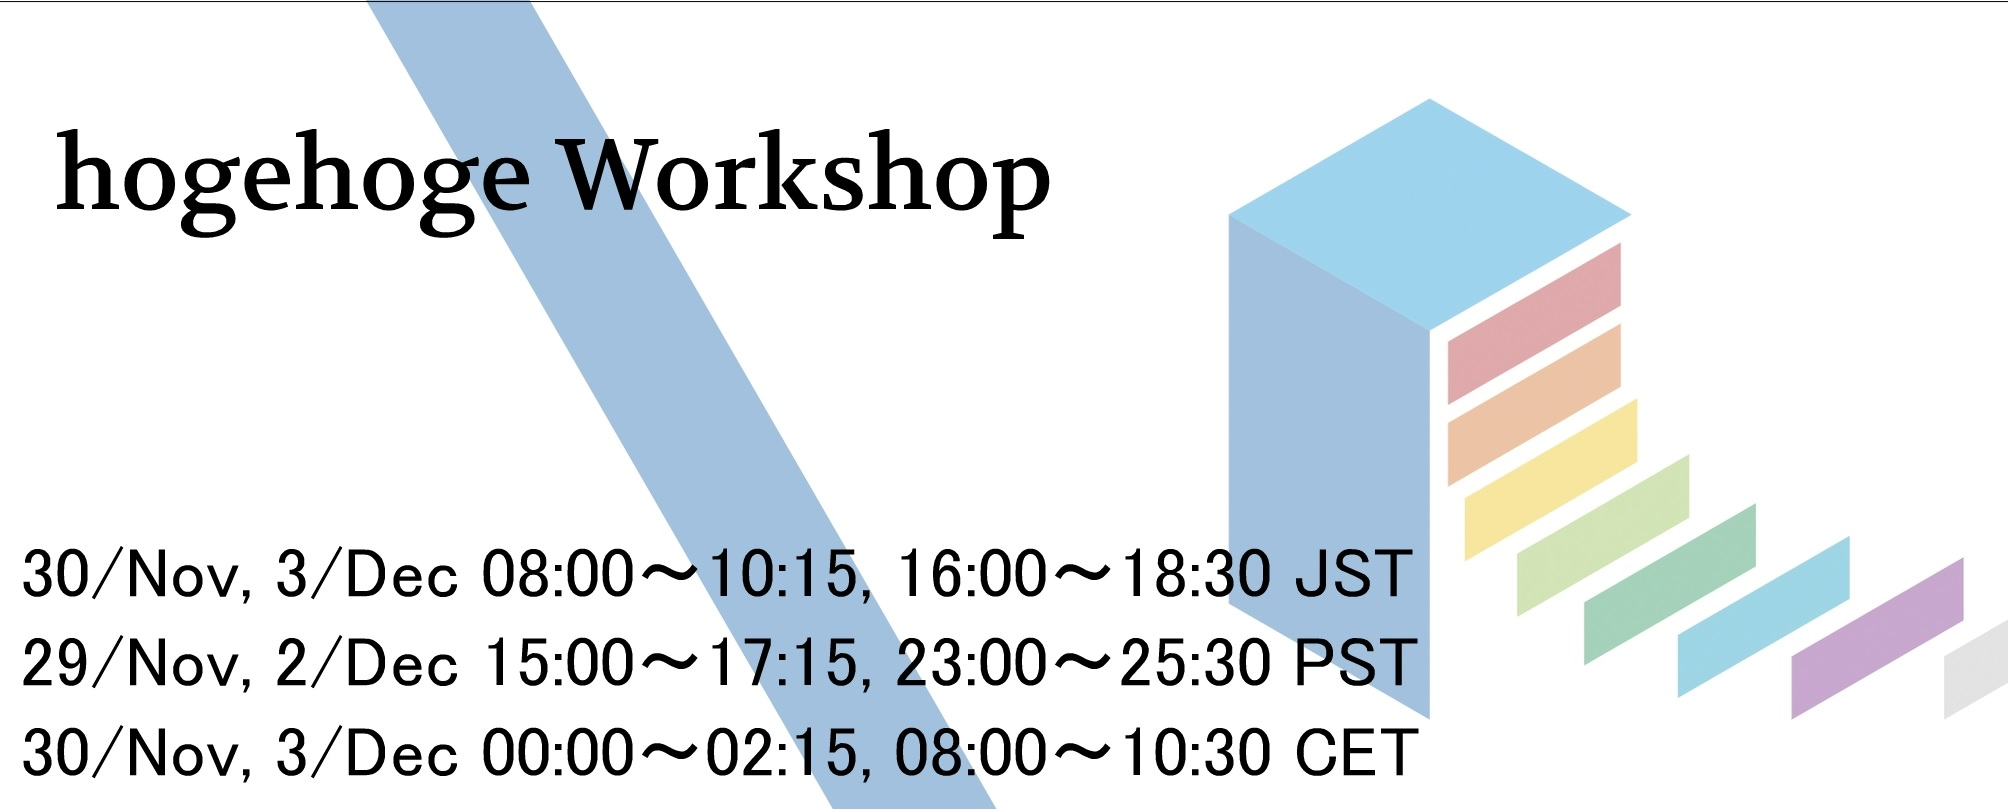
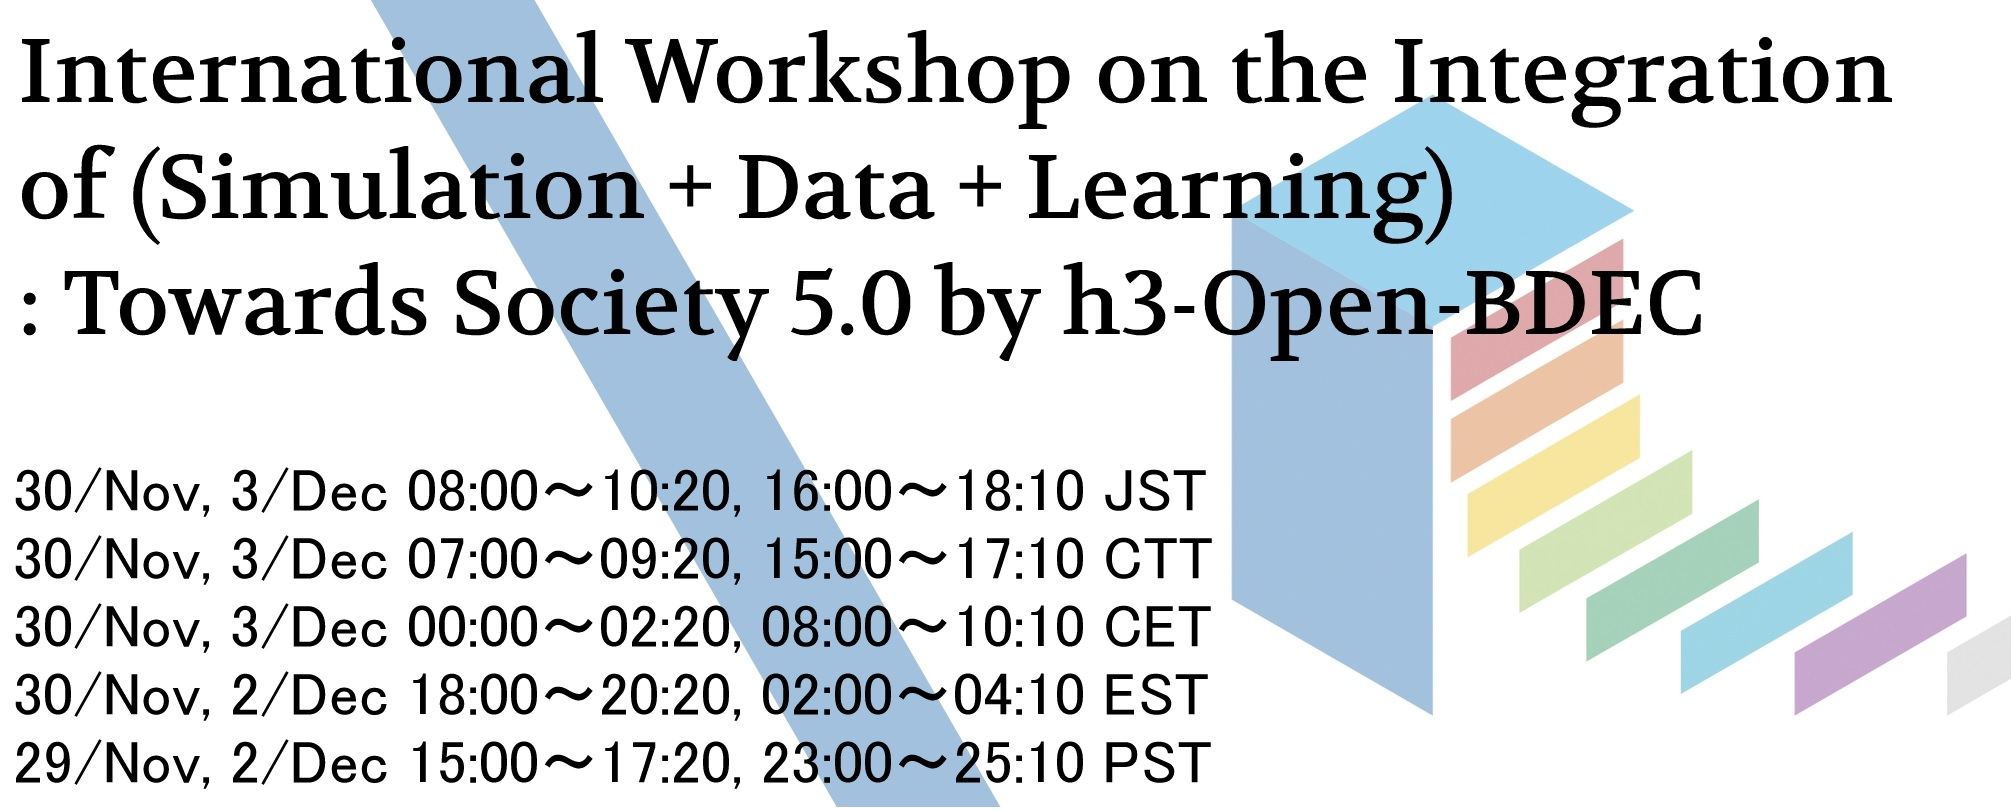
Upating time table

diff --git a/program.html b/program.html
@@ -38,7 +38,7 @@
 
 <h2>Program</h2>
 <table class="ta1">
-  <caption>Session 1 (30 Nov 8:00-10:15)<br>
+  <caption>Session 1 (30 Nov 8:00-09:50)<br>
   Adaptive precision, AT & Verification (I)</caption>
 <tr>
 <th>08:00~08:30</th>
@@ -110,7 +110,7 @@ The rapid development of Artificial Intelligence (AI) introduces a promising new
 
 
 <table class="ta1">
-  <caption>Session 3 (3 Dec 8:00-10:15 JST)<br>
+  <caption>Session 3 (3 Dec 8:00-10:20 JST)<br>
   Adaptive precision, AT & Verification (II)</caption>
 <tr>
 <th>08:00~08:40</th>
@@ -137,7 +137,14 @@ With respect to the above background, two topics are folded in this talk. First,
 </td>
 </tr>
 <tr>
-<th>09:20~10:00</th>
+<th>09:20~09:40</th>
+<td>Takeshi Fukaya (Hokkaido Univsersity)<br>
+ Title :<br>
+ Abstract
+</td>
+</tr>
+<tr>
+<th>09:40~10:20</th>
 <td>Discussions on Computing by Low/Adaptive Precesion
 </td>
 </tr>
@@ -145,7 +152,7 @@ With respect to the above background, two topics are folded in this talk. First,
 
 
 <table class="ta1">
-  <caption>Session 2 (3 Dec 16:00-18:30 JST)<br>
+  <caption>Session 2 (3 Dec 16:00-18:10 JST)<br>
   Integration of (S+D+L) (II)</caption>
 <tr>
 <th>16:00~16:40</th>
@@ -181,10 +188,15 @@ The four-dimensional variational method (4DVar) is one of the data assimilation 
 </td>
 </tr>
 <tr>
-<th>17:00~17:20</th>  
-<td>Hiromichi Nagao (The University of Tokyo)<br>
+<th>17:40~18:00</th>  
+<td>Hiroya Matsuba (The University of Tokyo)<br>
  Title :<br>
  Abstract
+</td>
+</tr>
+<tr>
+<th>18:00~18:10</th>  
+<td>Closing
 </td>
 </tr>
 
